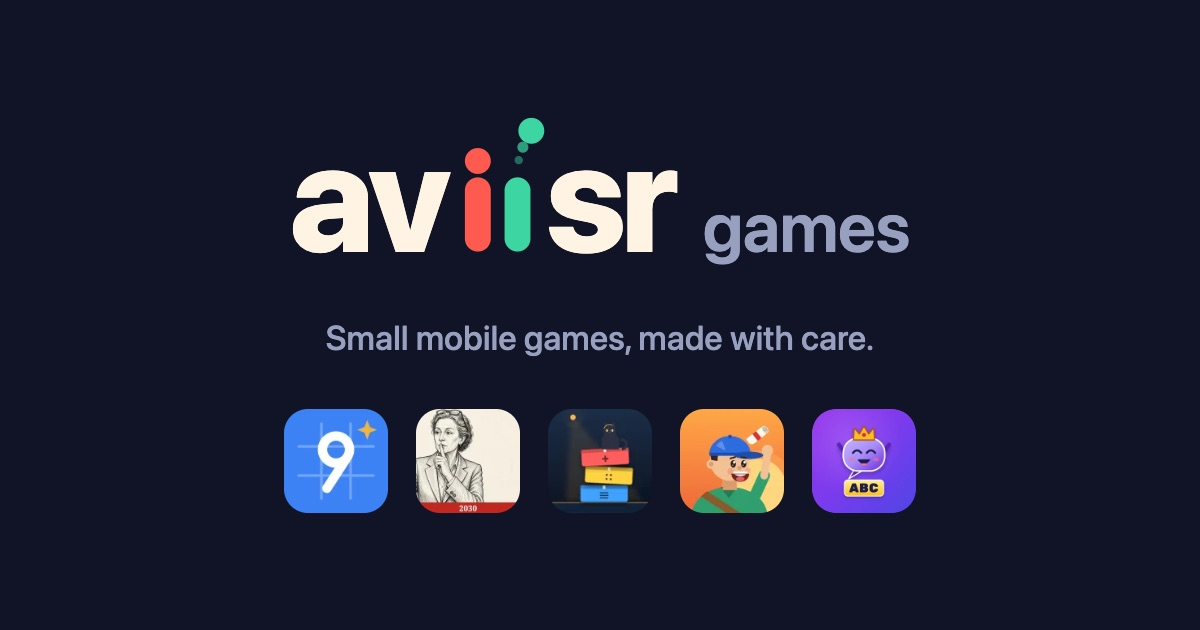
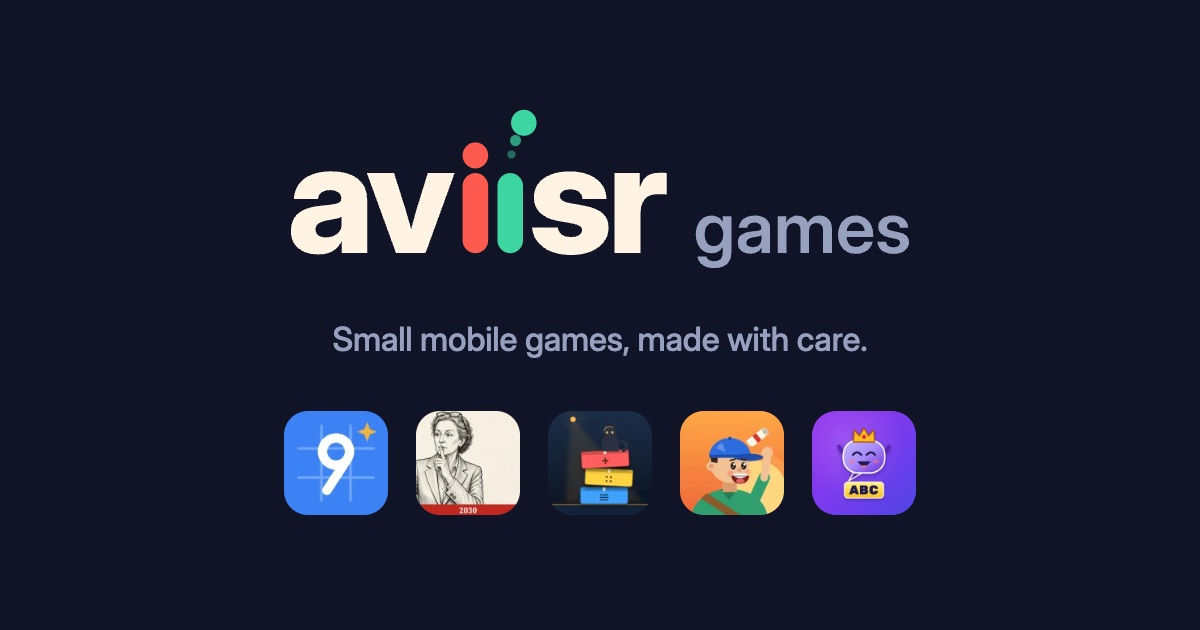
brand: final wordmark set in Inter (outlines), used in the header and share image
- assets/logo/wordmark-*.svg: aviisr games and the short aviisr lockup, dark
  and light, pure paths with the drawn ii; Inter licence text included
- header logo is the wordmark file, identical on every device
- share image regenerated

diff --git a/index.html b/index.html
@@ -39,7 +39,7 @@
 <a class="skip-link" href="#main" data-i18n="w_skip">Skip to content</a>
 <header>
 <div class="col bar">
-  <a class="logo" href="/" aria-label="aviisr games"><span>av</span><svg viewBox="0 0 50 78" aria-hidden="true" focusable="false"><g class="a"><rect x="4" y="35" width="15" height="43" rx="7.5"/><circle cx="11.5" cy="25.5" r="7.5"/></g><g class="b"><rect x="27" y="35" width="15" height="43" rx="7.5"/><circle cx="35.2" cy="25" r="2.4" opacity=".45"/><circle cx="37.6" cy="17.5" r="3.2" opacity=".7"/><circle cx="42.5" cy="8" r="7.5"/></g></svg><span>sr</span><span class="g">games</span></a>
+  <a class="logo" href="/" aria-label="aviisr games"><img src="/assets/logo/wordmark-dark.svg" alt="" width="128" height="36"></a>
   <nav class="links" aria-label="Main"><a href="#games" data-i18n="w_games">Games</a><a href="support/" data-i18n="navSupport">Support</a></nav>
   <div class="langbox"><label for="lang-switcher" data-i18n="w_lang">Language</label><nav class="lang"></nav></div>
 </div>

diff --git a/assets/site.css b/assets/site.css
@@ -16,10 +16,7 @@ a{color:inherit}
 
 /* header */
 .bar{display:flex;flex-wrap:wrap;align-items:center;gap:4px 20px;min-height:64px;padding-block:6px}
-.logo{display:flex;align-items:baseline;direction:ltr;padding-block:10px;font:800 1.7rem/1 var(--sans);letter-spacing:-.03em;text-decoration:none}
-.logo svg{overflow:visible;flex:none;width:.575em;height:.897em;margin-inline:.085em .012em}
-.logo .a{fill:var(--studio-coral)}.logo .b{fill:var(--studio-mint)}
-.logo .g{margin-inline-start:.42em;font-size:.46em;font-weight:600;letter-spacing:0!important;color:var(--studio-dim)}
+.logo{display:block;padding-block:8px}.logo img{display:block;width:auto;height:36px}
 .links{display:flex;gap:20px;margin-inline-start:auto}
 .links a{display:inline-flex;align-items:center;min-height:44px;font-weight:600;text-decoration:none}
 .links a:hover{text-decoration:underline}

diff --git a/assets/logo/README.md b/assets/logo/README.md
@@ -15,4 +15,9 @@ Rules
 - Never recolour or stretch the mark; keep the jump dot.
 - Keep clear space of at least one stem width around it.
 
-The wordmark is live text ("aviisr" weight 800, "games" smaller, muted) plus the drawn ii. An outlined wordmark file does not exist yet.
+Wordmark files (pure outlines, no text or fonts)
+- wordmark-dark.svg / wordmark-light.svg: full "aviisr games" lockup, transparent.
+- wordmark-short-dark.svg / wordmark-short-light.svg: "aviisr" only, for small spaces.
+- OFL-Inter.txt: licence of the typeface.
+
+The wordmark is set in Inter (SIL Open Font License 1.1), weight 800 for aviisr and 600 for games, converted to outlines. The two i shapes are drawn, not font glyphs.
